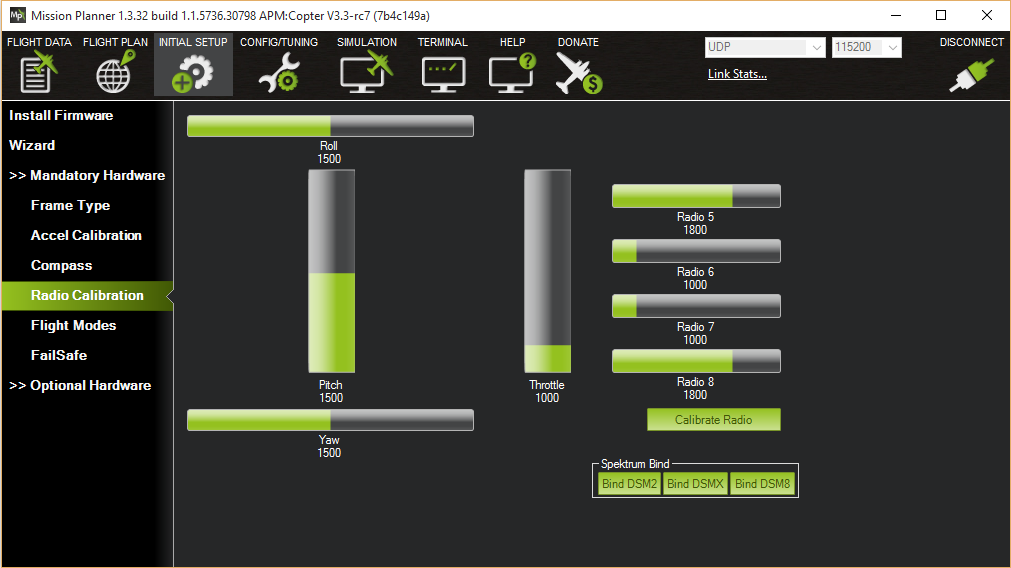
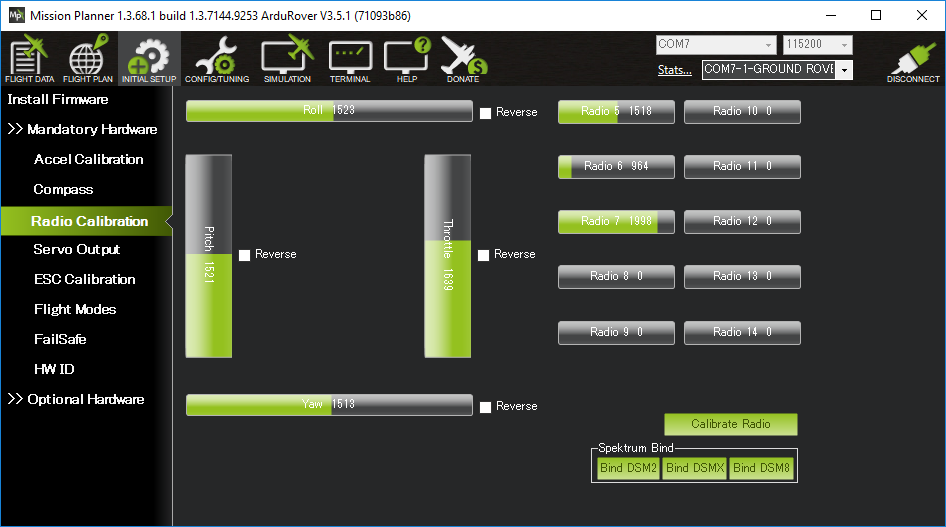
Common: update RC calibration page

diff --git a/common/source/docs/common-radio-control-calibration.rst b/common/source/docs/common-radio-control-calibration.rst
@@ -1,28 +1,83 @@
 .. _common-radio-control-calibration:
 
-============================================
-Radio Control Calibration in Mission Planner
-============================================
+=========================
+Radio Control Calibration
+=========================
 
-This article shows how to perform radio control calibration using
-*Mission Planner*.
+This article shows how to perform radio control calibration using Mission Planner
 
 Overview
 ========
 
-RC transmitters are used to control vehicle movement and orientation.
-Copter and Plane minimally control throttle, pitch, roll and yaw, while
-on Rover we just control throttle and roll. Each of these control
-signals are mapped to transmitter stick/switch(s) and in turn to
-autopilot channels from the connected receiver.
+RC transmitters allow the pilot to set the flight mode, control the vehicle's movement and orientation and also turn on/off auxiliary functions (i.e. raising and lowering landing gear, etc).
 
-Calibrating each of the transmitter controls/channels is a
-straightforward process - simply move each of the enabled
-sticks/switches through their full range and record the maximum and
-minimum positions.
+RC Calibration involves capturing each RC input channel's minimum, maximum and "trim" values so that ArduPilot can correctly interpret the input.
 
-Transmitter configuration
--------------------------
+Check the Transmitter's Setup
+-----------------------------
+
+- Ensure the battery is disconnected (this is important because it is possible to accidentally arm the vehicle during the RC calibration process)
+- Ensure the RC receiver is connected to the flight controller
+- Turn on your RC transmitter and if it has "trim tabs" ensure they are in the middle
+- Connect the flight controller to the PC using a USB cable
+- On the Mission Planner press the "Connect" button and open Mission Planner's **INITIAL SETUP \| Mandatory Hardware \| Radio Calibration** screen
+- Some green bars should appear showing the ArduPilot is receiving input from the Transmitter/Receiver. If no bars appear check the receiver's LED:
+
+   -  No lights may indicate that it is incorrectly wired to the autopilot.  Look for connectors that may have been inserted upside down
+   -  A Red or flashing LED may indicate that your RC transmitter/receiver need be bound.  See the manual that came with your RC equipment for instructions
+
+.. figure:: ../../../images/mp_radio_calibration.png
+   :target: ../_images/mp_radio_calibration.png
+
+- Check the channel mapping in the transmitter (ie. check which inputs channels are controlled by the transmitter's sticks, switches and knobs) by moving the sticks, knobs and switches and observing which (if any) green bars move.  If this is the first time the transmitter is being used with ArduPilot it is likely that the transmitter's channel mapping will need to be changed and normally this is done on the transmitter itself using its built-in configuration menu
+
+  - Determine if your transmitter is Mode1 or Mode2 (see below)
+  - Roll stick should control channel 1
+  - Pitch stick should control channel 2
+  - Throttle stick should control channel 3
+  - Yaw stick should control channel 4
+  - A 3 position switch (to control the flight mode) should be setup to control Channel 5 (if using Copter) or Channel 8 (if using Rover or Plane).  This channel can be moved by setting the :ref:`FLTMODE_CH <FLTMODE_CH>` :ref:`MODE_CH <MODE_CH>` parameter
+  - On Copter, a tuning knob should control Channel 6
+  - On Copter and Rover, any remaining two or three position switches can be setup to control auxiliary functions by mapping them to channels 7 to 12
+- Move the transmitter's roll, pitch, throttle and yaw sticks and ensure the green bars move in the correct direction:
+
+  - for roll, throttle and yaw channels, the green bars should move in the same direction as the transmitter's physical sticks
+  - for pitch, the green bar should move in the opposite direction to the transmitter's physical stick
+  - if one of the green bars moves in the incorrect direction reverse the channel in the transmitter itself.  If it is not possible to reverse the channel in the transmitter you may reverse the channel in ArduPilot by checking the "Reversed" checkbox (Plane and Rover only).  If the checkbox is not visible it is possible to reverse the channel by directly changing the RCx_REVERSED parameter (where "x" is the input channel from 1 to 4).
+
+.. figure:: ../../../images/mp_radio_calibration.png
+   :target: ../_images/mp_radio_calibration.png
+
+Calibration
+-----------
+
+- Open Mission Planner's **INITIAL SETUP \| Mandatory Hardware \| Radio Calibration** screen
+- Click on the green "Calibrate Radio" button on the bottom right
+- Press "OK" when prompted to check the radio control equipment is on, battery is not connected, and propellers are not attached
+
+   .. figure:: ../../../images/mp_calibrate_radio.jpg
+      :target: ../_images/mp_calibrate_radio.jpg
+
+- Move the transmitter's control sticks, knobs and switches to their limits.  Red lines will appear across the calibration bars to show minimum and maximum values seen so far
+
+   .. figure:: ../../../images/mp_radio_calibration_click_when_done.jpg
+      :target: ../_images/mp_radio_calibration_click_when_done.jpg
+
+- Select **Click when Done**
+[site wiki="plane,copter,planner"]
+- A window will appear with the prompt, "Ensure all your sticks are centered and throttle is down and click ok to continue".  Move the throttle to zero and press "OK".
+[/site]
+[site wiki="rover"]
+- A window will appear with the prompt, "Ensure all your sticks are centered and throttle is down and click ok to continue".  **Move the throttle to the center** and press "OK".
+[/site]
+
+- Mission Planner will show a summary of the calibration data. Normal values are around 1100 for minimums and 1900 for maximums.
+
+   .. figure:: ../../../images/radi-calib-results.png
+      :target: ../_images/radi-calib-results.png
+
+Mode1 and Mode2 Transmitters
+----------------------------
 
 There are two main transmitter configurations:
 
@@ -34,15 +89,7 @@ There are two main transmitter configurations:
 .. figure:: ../../../images/radio_setup_mode_1.png
    :target: ../_images/radio_setup_mode_1.png
 
-   Transmitter(Mode 1): Recommended Channels
-
-.. figure:: ../../../images/rc_transmitter_mode2_setup.png
-   :target: ../_images/rc_transmitter_mode2_setup.png
-
-   Transmitter(Mode 2): Recommended Channels
-
-[site wiki="rover"]Rover users may prefer to control both throttle and
-roll from the same stick.[/site]
+[site wiki="rover"]Rover users may prefer to control both throttle and roll from the same stick.[/site]
 
 Channel mappings
 ----------------
@@ -56,8 +103,8 @@ Copter default channel mappings are:
 -  **Channel 3**: Throttle
 -  **Channel 4**: Yaw
 -  **Channel 5**: Flight modes
--  **Channel 6**: (Optional) Inflight tuning or camera mount (mapped to
-   transmitter tuning knob)
+-  **Channel 6**: (Optional) Inflight tuning or camera mount (mapped to transmitter tuning knob)
+-  **Channel 7 to 12**: (Optional) Auxiliary function switches
 
 [/site]
 
@@ -69,153 +116,29 @@ Plane default channel mappings are:
 -  **Channel 2**: Pitch
 -  **Channel 3**: Throttle
 -  **Channel 4**: Yaw
--  **Channel 8** (default): Flight modes. Mode selection can be mapped
-   to any RC channel using the ``FLTMODE_CH`` parameter.
+-  **Channel 8** (default): Flight modes. Mode selection can be mapped to any RC channel using the :ref:`FLTMODE_CH <FLTMODE_CH>` parameter
 
+Unused channels can be mapped to control additional peripherals.
 [/site]
 
 [site wiki="rover"]
 
 Rover default channel mappings are:
 
--  **Channel 1**: Steer
+-  **Channel 1**: Steering
 -  **Channel 3**: Throttle
--  **Channel 8** (default): Flight modes. Mode selection can be mapped
-   to any RC channel using the ``MODE_CH`` parameter.
+-  **Channel 8** (default): Flight modes. Mode selection can be mapped to any RC channel using the :ref:`MODE_CH <MODE_CH>` parameter
+-  **Channel 7 to 12**: (Optional) Auxiliary function switches
 
 [/site]
 
-Unused channels can be mapped to control additional peripherals.
+Further Reading
+---------------
 
-.. note::
-
-   -  The default channel mappings can be changed using the instructions in
-      :ref:`RCMAP Input Channel Mapping <common-rcmap>`.
-   -  Once you've calibrated the flight mode you can use the instructions
-      in :ref:`RC Transmitter Flight Mode Configuration <common-rc-transmitter-flight-mode-configuration>` to
-      specify which vehicle modes are enabled by each switch position.
-
-Preconditions
-=============
-
-Safety first
-------------
-
-For safety reasons you should disconnect the battery and/or remove
-propellers before preforming radio calibration.
-
-Centre trims
-------------
-
-Centre trims in manual RC mode before preforming RC calibration. If
-trims are not centred you may need to do the RC calibration again after
-you have used the vehicle (this is easy to do at the field).
-
-.. note::
-
-   Trims are centred when a moving vehicle does not change
-   direction/speed/orientation when travelling hands-off with all
-   controls/sticks in neutral positions. If there is any deviation in
-   direction, speed or orientation, adjust the associated servo to
-   compensate. 
-
-Connect autopilot and turn on receiver
---------------------------------------
-
-Connect the autopilot via USB and turn on your RC transmitter. Verify
-that the transmitter is bound to the receiver (the receiver displays a
-solid green light) and that it is set to use the correct model for your
-vehicle.
-
-Open Mission Planner's **INITIAL SETUP \| Mandatory Hardware \| Radio
-Calibration** screen. If your RC receiver (Rx) and transmitter (Tx) are
-bound, you should see the green bars move when you move the transmitter
-sticks.
-
-.. figure:: ../../../images/mp_radio_calibration.png
-   :target: ../_images/mp_radio_calibration.png
-
-   MissionPlanner: Radio Calibration Screen (Copter)
-
-.. figure:: ../../../images/mp_radio_calibration_plane.jpg
-   :target: ../_images/mp_radio_calibration_plane.jpg
-
-   Mission Planner: Radio Calibration Screen(Plane)
-
-.. tip::
-
-   If the bars are not moving then check what LED lights the receiver
-   is displaying:
-
-   -  no lights - may indicate that it is incorrectly wired to the
-      autopilot (look for connectors that may have been inserted upside
-      down).
-   -  red or a flashing green light - may indicate that your RC
-      transmitter/receiver need be bound (see the manual that came with
-      your RC equipment for instructions).
-   -  a solid green light - recheck the autopilot is connected to the
-      *Mission Planner* and if the bars are still not moving, try clicking
-      on the **Calibrate Radio** button.
-
-Calibration steps
-=================
-
-#. Open Mission Planner's **INITIAL SETUP \| Mandatory Hardware \| Radio
-   Calibration** screen.
-#. Click on the green **Calibrate Radio** button in the lower right of
-   the window.
-
-   Mission Planner will display a prompt to check radio control
-   equipment is on, battery is not connected, and propellers are not
-   attached. Select **OK**.
-
-   .. figure:: ../../../images/mp_calibrate_radio.jpg
-      :target: ../_images/mp_calibrate_radio.jpg
-
-      Mission Planner: Select Calibrate Radio and OK to begin calibrating.
-
-#. Move the control sticks and toggle switches on your transmitter to
-   their limits of travel and observe the results on the radio
-   calibration bars. Red lines will appear across the calibration bars
-   to indicate maximum and minimum values:
-
-   .. figure:: ../../../images/mp_radio_calibration_click_when_done.jpg
-      :target: ../_images/mp_radio_calibration_click_when_done.jpg
-
-      Mission Planner: Input range marked with red lines
-
-   .. tip::
-
-      The green bars should move in the **same direction** as the
-         transmitter sticks (except for Pitch where the bars move opposite to
-         stick movements - low values are forward, high values are back).  If
-         the green bars move in the wrong direction, reverse them using your
-         RC transmitter's channel-reverse function (see your RC gear's manual
-         for guidance).
-
-   You should also calibrate the channel you have selected for
-   controlling vehicle mode, and any other channels you have connected
-   to the autopilot.
-
-   [site wiki="rover"]Servos should move in the same direction when
-   under autopilot control as they do in MANUAL mode. If not, select the
-   **Reverse** checkbox for the associated channel. [/site]
-
-   [site wiki="plane"]This screen is also where you set up elevon mode
-   and servo reversal. For more information see :ref:`Normal/Elevon/VTail Mode & Reversing Servos <plane:reversing-servos-and-setting-normalelevon-mode>`.[/site]
-
-#. Select **Click when Done** when all required channels are set at the
-   minimum and maximum positions.
-
-   Mission Planner will show a summary of the calibration data. Normal
-   values are around 1100 for minimums and 1900 for maximums.
-
-   .. figure:: ../../../images/radi-calib-results.png
-      :target: ../_images/radi-calib-results.png
-
-      Mission Planner: Radio Calibration Results
-
-#. Turn off your transmitter and disconnect the battery if it was
-   connected.
+- Roll, pitch, throttle and yaw channel mappings can be changed using :ref:`RCMAP Input Channel Mapping <common-rcmap>`
+- Flight mode switch setup to specify which vehicle modes are enabled by each switch position can be found on the :ref:`RC Transmitter Flight Mode Configuration <common-rc-transmitter-flight-mode-configuration>` page
+[site wiki="rover"]
+- Rover steering and reversing behaviour setup are described on the :ref:`Steering Input Type and Reversing Behaviour <rover-steering-input-type-and-reversing-behaviour>` page
+[/site]
 
 [copywiki destination="copter,plane,rover,planner"]
